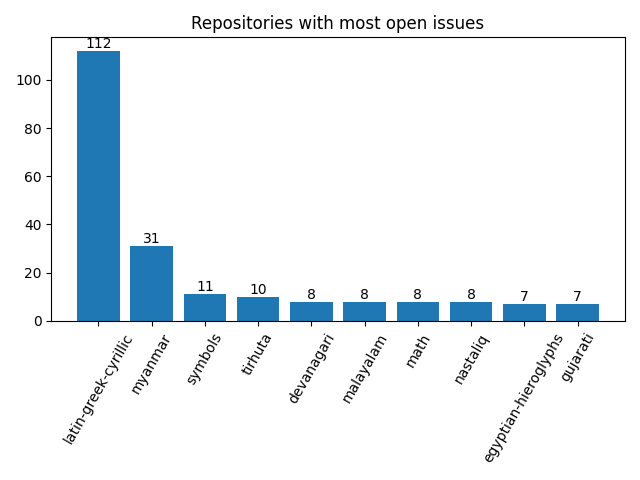
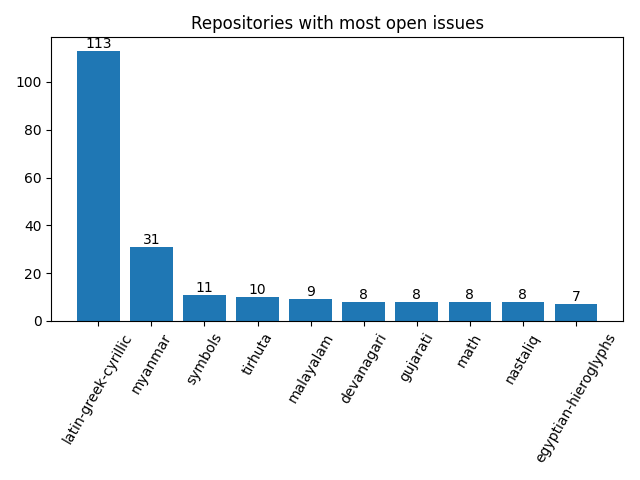
Apply automatic changes

diff --git a/docs/analytics.html b/docs/analytics.html
@@ -69,7 +69,7 @@ td .material-icons { display:inline-flex; vertical-align: top; font-size:1.1rem;
 						</tr>
 						<tr>
 							<td>Jan</td>
-							<td>0</td>
+							<td>6</td>
 							<td>0</td>
 						</tr>
 					</table>
@@ -90,7 +90,7 @@ td .material-icons { display:inline-flex; vertical-align: top; font-size:1.1rem;
 							<td>
 								<a href="http://github.com/notofonts/latin-greek-cyrillic/issues">latin-greek-cyrillic</a>
 							</td>
-							<td>112</td>
+							<td>113</td>
 						</tr>
 						<tr>
 							<td>
@@ -112,13 +112,19 @@ td .material-icons { display:inline-flex; vertical-align: top; font-size:1.1rem;
 						</tr>
 						<tr>
 							<td>
+								<a href="http://github.com/notofonts/malayalam/issues">malayalam</a>
+							</td>
+							<td>9</td>
+						</tr>
+						<tr>
+							<td>
 								<a href="http://github.com/notofonts/devanagari/issues">devanagari</a>
 							</td>
 							<td>8</td>
 						</tr>
 						<tr>
 							<td>
-								<a href="http://github.com/notofonts/malayalam/issues">malayalam</a>
+								<a href="http://github.com/notofonts/gujarati/issues">gujarati</a>
 							</td>
 							<td>8</td>
 						</tr>
@@ -140,12 +146,6 @@ td .material-icons { display:inline-flex; vertical-align: top; font-size:1.1rem;
 							</td>
 							<td>7</td>
 						</tr>
-						<tr>
-							<td>
-								<a href="http://github.com/notofonts/gujarati/issues">gujarati</a>
-							</td>
-							<td>7</td>
-						</tr>
 					</table>
 				</div>
 				<div class="col">
@@ -161,13 +161,13 @@ td .material-icons { display:inline-flex; vertical-align: top; font-size:1.1rem;
 				<tr>
 					<td>1</td>
 					<td>
-						<a href="http://github.com/notofonts/armenian/issues">armenian</a>,  						<a href="http://github.com/notofonts/bamum/issues">bamum</a>,  						<a href="http://github.com/notofonts/brahmi/issues">brahmi</a>,  						<a href="http://github.com/notofonts/canadian-aboriginal/issues">canadian-aboriginal</a>,  						<a href="http://github.com/notofonts/chakma/issues">chakma</a>,  						<a href="http://github.com/notofonts/chorasmian/issues">chorasmian</a>,  						<a href="http://github.com/notofonts/deseret/issues">deseret</a>,  						<a href="http://github.com/notofonts/dogra/issues">dogra</a>,  						<a href="http://github.com/notofonts/duployan/issues">duployan</a>,  						<a href="http://github.com/notofonts/elbasan/issues">elbasan</a>,  						<a href="http://github.com/notofonts/ethiopic/issues">ethiopic</a>,  						<a href="http://github.com/notofonts/georgian/issues">georgian</a>,  						<a href="http://github.com/notofonts/glagolitic/issues">glagolitic</a>,  						<a href="http://github.com/notofonts/hanunoo/issues">hanunoo</a>,  						<a href="http://github.com/notofonts/kharoshthi/issues">kharoshthi</a>,  						<a href="http://github.com/notofonts/khojki/issues">khojki</a>,  						<a href="http://github.com/notofonts/khudawadi/issues">khudawadi</a>,  						<a href="http://github.com/notofonts/lydian/issues">lydian</a>,  						<a href="http://github.com/notofonts/meetei-mayek/issues">meetei-mayek</a>,  						<a href="http://github.com/notofonts/miao/issues">miao</a>,  						<a href="http://github.com/notofonts/mongolian/issues">mongolian</a>,  						<a href="http://github.com/notofonts/multani/issues">multani</a>,  						<a href="http://github.com/notofonts/music/issues">music</a>,  						<a href="http://github.com/notofonts/nko/issues">nko</a>,  						<a href="http://github.com/notofonts/old-italic/issues">old-italic</a>,  						<a href="http://github.com/notofonts/oriya/issues">oriya</a>,  						<a href="http://github.com/notofonts/pahawh-hmong/issues">pahawh-hmong</a>,  						<a href="http://github.com/notofonts/phags-pa/issues">phags-pa</a>,  						<a href="http://github.com/notofonts/rejang/issues">rejang</a>,  						<a href="http://github.com/notofonts/saurashtra/issues">saurashtra</a>,  						<a href="http://github.com/notofonts/sogdian/issues">sogdian</a>,  						<a href="http://github.com/notofonts/sundanese/issues">sundanese</a>,  						<a href="http://github.com/notofonts/tai-le/issues">tai-le</a>,  						<a href="http://github.com/notofonts/tai-tham/issues">tai-tham</a>,  						<a href="http://github.com/notofonts/takri/issues">takri</a>,  						<a href="http://github.com/notofonts/tangsa/issues">tangsa</a>,  						<a href="http://github.com/notofonts/tangut/issues">tangut</a>,  						<a href="http://github.com/notofonts/toto/issues">toto</a> 
+						<a href="http://github.com/notofonts/armenian/issues">armenian</a>,  						<a href="http://github.com/notofonts/bamum/issues">bamum</a>,  						<a href="http://github.com/notofonts/brahmi/issues">brahmi</a>,  						<a href="http://github.com/notofonts/canadian-aboriginal/issues">canadian-aboriginal</a>,  						<a href="http://github.com/notofonts/chakma/issues">chakma</a>,  						<a href="http://github.com/notofonts/chorasmian/issues">chorasmian</a>,  						<a href="http://github.com/notofonts/deseret/issues">deseret</a>,  						<a href="http://github.com/notofonts/dogra/issues">dogra</a>,  						<a href="http://github.com/notofonts/duployan/issues">duployan</a>,  						<a href="http://github.com/notofonts/elbasan/issues">elbasan</a>,  						<a href="http://github.com/notofonts/ethiopic/issues">ethiopic</a>,  						<a href="http://github.com/notofonts/georgian/issues">georgian</a>,  						<a href="http://github.com/notofonts/glagolitic/issues">glagolitic</a>,  						<a href="http://github.com/notofonts/hanunoo/issues">hanunoo</a>,  						<a href="http://github.com/notofonts/kharoshthi/issues">kharoshthi</a>,  						<a href="http://github.com/notofonts/khudawadi/issues">khudawadi</a>,  						<a href="http://github.com/notofonts/lydian/issues">lydian</a>,  						<a href="http://github.com/notofonts/meetei-mayek/issues">meetei-mayek</a>,  						<a href="http://github.com/notofonts/miao/issues">miao</a>,  						<a href="http://github.com/notofonts/mongolian/issues">mongolian</a>,  						<a href="http://github.com/notofonts/multani/issues">multani</a>,  						<a href="http://github.com/notofonts/music/issues">music</a>,  						<a href="http://github.com/notofonts/nko/issues">nko</a>,  						<a href="http://github.com/notofonts/old-italic/issues">old-italic</a>,  						<a href="http://github.com/notofonts/oriya/issues">oriya</a>,  						<a href="http://github.com/notofonts/pahawh-hmong/issues">pahawh-hmong</a>,  						<a href="http://github.com/notofonts/phags-pa/issues">phags-pa</a>,  						<a href="http://github.com/notofonts/rejang/issues">rejang</a>,  						<a href="http://github.com/notofonts/saurashtra/issues">saurashtra</a>,  						<a href="http://github.com/notofonts/sogdian/issues">sogdian</a>,  						<a href="http://github.com/notofonts/sundanese/issues">sundanese</a>,  						<a href="http://github.com/notofonts/tai-le/issues">tai-le</a>,  						<a href="http://github.com/notofonts/tai-tham/issues">tai-tham</a>,  						<a href="http://github.com/notofonts/takri/issues">takri</a>,  						<a href="http://github.com/notofonts/tangsa/issues">tangsa</a>,  						<a href="http://github.com/notofonts/tangut/issues">tangut</a>,  						<a href="http://github.com/notofonts/toto/issues">toto</a> 
 					</td>
 				</tr>
 				<tr>
 					<td>2</td>
 					<td>
-						<a href="http://github.com/notofonts/coptic/issues">coptic</a>,  						<a href="http://github.com/notofonts/old-hungarian-ui/issues">old-hungarian-ui</a>,  						<a href="http://github.com/notofonts/old-turkic/issues">old-turkic</a>,  						<a href="http://github.com/notofonts/siddham/issues">siddham</a>,  						<a href="http://github.com/notofonts/sign-writing/issues">sign-writing</a>,  						<a href="http://github.com/notofonts/tagalog/issues">tagalog</a>,  						<a href="http://github.com/notofonts/tamil/issues">tamil</a>,  						<a href="http://github.com/notofonts/tifinagh/issues">tifinagh</a> 
+						<a href="http://github.com/notofonts/coptic/issues">coptic</a>,  						<a href="http://github.com/notofonts/khojki/issues">khojki</a>,  						<a href="http://github.com/notofonts/old-hungarian-ui/issues">old-hungarian-ui</a>,  						<a href="http://github.com/notofonts/old-turkic/issues">old-turkic</a>,  						<a href="http://github.com/notofonts/siddham/issues">siddham</a>,  						<a href="http://github.com/notofonts/sign-writing/issues">sign-writing</a>,  						<a href="http://github.com/notofonts/tagalog/issues">tagalog</a>,  						<a href="http://github.com/notofonts/tamil/issues">tamil</a>,  						<a href="http://github.com/notofonts/tifinagh/issues">tifinagh</a> 
 					</td>
 				</tr>
 				<tr>
@@ -179,31 +179,37 @@ td .material-icons { display:inline-flex; vertical-align: top; font-size:1.1rem;
 				<tr>
 					<td>4</td>
 					<td>
-						<a href="http://github.com/notofonts/arabic/issues">arabic</a>,  						<a href="http://github.com/notofonts/balinese/issues">balinese</a>,  						<a href="http://github.com/notofonts/batak/issues">batak</a>,  						<a href="http://github.com/notofonts/javanese/issues">javanese</a>,  						<a href="http://github.com/notofonts/kawi/issues">kawi</a>,  						<a href="http://github.com/notofonts/telugu/issues">telugu</a>,  						<a href="http://github.com/notofonts/tibetan/issues">tibetan</a> 
+						<a href="http://github.com/notofonts/balinese/issues">balinese</a>,  						<a href="http://github.com/notofonts/batak/issues">batak</a>,  						<a href="http://github.com/notofonts/javanese/issues">javanese</a>,  						<a href="http://github.com/notofonts/kawi/issues">kawi</a>,  						<a href="http://github.com/notofonts/telugu/issues">telugu</a>,  						<a href="http://github.com/notofonts/tibetan/issues">tibetan</a> 
 					</td>
 				</tr>
 				<tr>
 					<td>5</td>
 					<td>
-						<a href="http://github.com/notofonts/bhaiksuki/issues">bhaiksuki</a>,  						<a href="http://github.com/notofonts/gurmukhi/issues">gurmukhi</a>,  						<a href="http://github.com/notofonts/syloti-nagri/issues">syloti-nagri</a>,  						<a href="http://github.com/notofonts/syriac/issues">syriac</a> 
+						<a href="http://github.com/notofonts/arabic/issues">arabic</a>,  						<a href="http://github.com/notofonts/bhaiksuki/issues">bhaiksuki</a>,  						<a href="http://github.com/notofonts/gurmukhi/issues">gurmukhi</a>,  						<a href="http://github.com/notofonts/syloti-nagri/issues">syloti-nagri</a> 
 					</td>
 				</tr>
 				<tr>
 					<td>6</td>
 					<td>
-						<a href="http://github.com/notofonts/bengali/issues">bengali</a>,  						<a href="http://github.com/notofonts/dives-akuru/issues">dives-akuru</a>,  						<a href="http://github.com/notofonts/modi/issues">modi</a>,  						<a href="http://github.com/notofonts/old-hungarian/issues">old-hungarian</a> 
+						<a href="http://github.com/notofonts/bengali/issues">bengali</a>,  						<a href="http://github.com/notofonts/dives-akuru/issues">dives-akuru</a>,  						<a href="http://github.com/notofonts/modi/issues">modi</a>,  						<a href="http://github.com/notofonts/old-hungarian/issues">old-hungarian</a>,  						<a href="http://github.com/notofonts/syriac/issues">syriac</a> 
 					</td>
 				</tr>
 				<tr>
 					<td>7</td>
 					<td>
-						<a href="http://github.com/notofonts/egyptian-hieroglyphs/issues">egyptian-hieroglyphs</a>,  						<a href="http://github.com/notofonts/gujarati/issues">gujarati</a>,  						<a href="http://github.com/notofonts/hebrew/issues">hebrew</a>,  						<a href="http://github.com/notofonts/kaithi/issues">kaithi</a>,  						<a href="http://github.com/notofonts/kannada/issues">kannada</a> 
+						<a href="http://github.com/notofonts/egyptian-hieroglyphs/issues">egyptian-hieroglyphs</a>,  						<a href="http://github.com/notofonts/hebrew/issues">hebrew</a>,  						<a href="http://github.com/notofonts/kaithi/issues">kaithi</a>,  						<a href="http://github.com/notofonts/kannada/issues">kannada</a> 
 					</td>
 				</tr>
 				<tr>
 					<td>8</td>
 					<td>
-						<a href="http://github.com/notofonts/devanagari/issues">devanagari</a>,  						<a href="http://github.com/notofonts/malayalam/issues">malayalam</a>,  						<a href="http://github.com/notofonts/math/issues">math</a>,  						<a href="http://github.com/notofonts/nastaliq/issues">nastaliq</a> 
+						<a href="http://github.com/notofonts/devanagari/issues">devanagari</a>,  						<a href="http://github.com/notofonts/gujarati/issues">gujarati</a>,  						<a href="http://github.com/notofonts/math/issues">math</a>,  						<a href="http://github.com/notofonts/nastaliq/issues">nastaliq</a> 
+					</td>
+				</tr>
+				<tr>
+					<td>9</td>
+					<td>
+						<a href="http://github.com/notofonts/malayalam/issues">malayalam</a> 
 					</td>
 				</tr>
 				<tr>
@@ -224,15 +230,15 @@ td .material-icons { display:inline-flex; vertical-align: top; font-size:1.1rem;
 						<tr>
 							<td>1</td>
 							<td>
-									<a href="http://github.com/notofonts/latin-greek-cyrillic/issues">latin-greek-cyrillic</a>: 112, 
+									<a href="http://github.com/notofonts/latin-greek-cyrillic/issues">latin-greek-cyrillic</a>: 113, 
+
+									<a href="http://github.com/notofonts/malayalam/issues">malayalam</a>: 9, 
 
 									<a href="http://github.com/notofonts/devanagari/issues">devanagari</a>: 8, 
 
-									<a href="http://github.com/notofonts/malayalam/issues">malayalam</a>: 8, 
+									<a href="http://github.com/notofonts/gujarati/issues">gujarati</a>: 8, 
 
 									<a href="http://github.com/notofonts/nastaliq/issues">nastaliq</a>: 8, 
-
-									<a href="http://github.com/notofonts/gujarati/issues">gujarati</a>: 7, 
 
 									<a href="http://github.com/notofonts/hebrew/issues">hebrew</a>: 7, 
 
@@ -240,9 +246,9 @@ td .material-icons { display:inline-flex; vertical-align: top; font-size:1.1rem;
 
 									<a href="http://github.com/notofonts/bengali/issues">bengali</a>: 6, 
 
-									<a href="http://github.com/notofonts/gurmukhi/issues">gurmukhi</a>: 5, 
+									<a href="http://github.com/notofonts/arabic/issues">arabic</a>: 5, 
 
-									<a href="http://github.com/notofonts/arabic/issues">arabic</a>: 4, 
+									<a href="http://github.com/notofonts/gurmukhi/issues">gurmukhi</a>: 5, 
 
 									<a href="http://github.com/notofonts/telugu/issues">telugu</a>: 4, 
 
@@ -276,9 +282,9 @@ td .material-icons { display:inline-flex; vertical-align: top; font-size:1.1rem;
 
 									<a href="http://github.com/notofonts/modi/issues">modi</a>: 6, 
 
-									<a href="http://github.com/notofonts/syloti-nagri/issues">syloti-nagri</a>: 5, 
+									<a href="http://github.com/notofonts/syriac/issues">syriac</a>: 6, 
 
-									<a href="http://github.com/notofonts/syriac/issues">syriac</a>: 5, 
+									<a href="http://github.com/notofonts/syloti-nagri/issues">syloti-nagri</a>: 5, 
 
 									<a href="http://github.com/notofonts/batak/issues">batak</a>: 4, 
 
@@ -289,6 +295,8 @@ td .material-icons { display:inline-flex; vertical-align: top; font-size:1.1rem;
 									<a href="http://github.com/notofonts/sharada/issues">sharada</a>: 3, 
 
 									<a href="http://github.com/notofonts/coptic/issues">coptic</a>: 2, 
+
+									<a href="http://github.com/notofonts/khojki/issues">khojki</a>: 2, 
 
 									<a href="http://github.com/notofonts/siddham/issues">siddham</a>: 2, 
 
@@ -307,8 +315,6 @@ td .material-icons { display:inline-flex; vertical-align: top; font-size:1.1rem;
 									<a href="http://github.com/notofonts/duployan/issues">duployan</a>: 1, 
 
 									<a href="http://github.com/notofonts/hanunoo/issues">hanunoo</a>: 1, 
-
-									<a href="http://github.com/notofonts/khojki/issues">khojki</a>: 1, 
 
 									<a href="http://github.com/notofonts/meetei-mayek/issues">meetei-mayek</a>: 1, 
 
